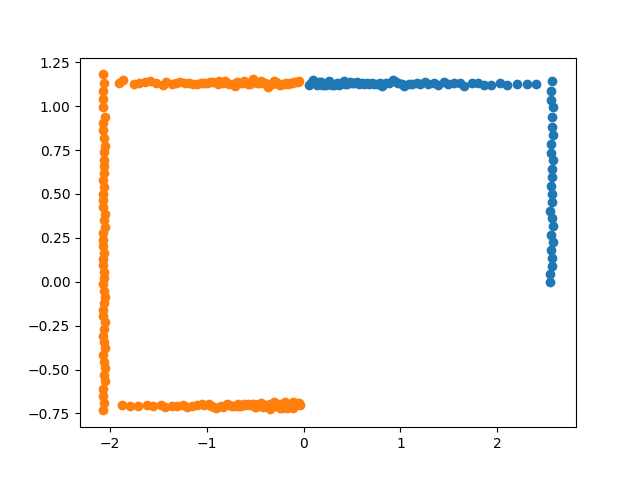
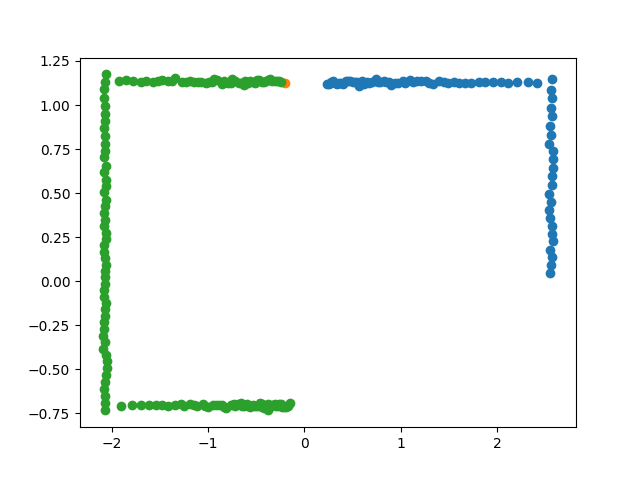
not so great attempt.

diff --git a/src/lidablo/lidablo/task2.py b/src/lidablo/lidablo/task2.py
@@ -118,7 +118,7 @@ class FeatureExtracter(Node):
 
         ranges = self.polar_to_cartesian_coordinate(msg)
 
-        accepted_error = 15
+        accepted_error = 0.5
         previous_slope = 0
         line = []
         lines = []
@@ -134,13 +134,13 @@ class FeatureExtracter(Node):
 
                 slope_diff = np.abs(current_slope - previous_slope)
 
-                # print("Slope Diff  ", slope_diff)
+                print("Slope Diff  ", slope_diff)
 
                 if (slope_diff <= accepted_error):
                     line.append(current_point)
                 else:
-                    # if len(line) > 0:
-                    lines.append(line)
+                    if len(line) > 0:
+                        lines.append(line)
                     line = []
 
                 previous_slope = current_slope
